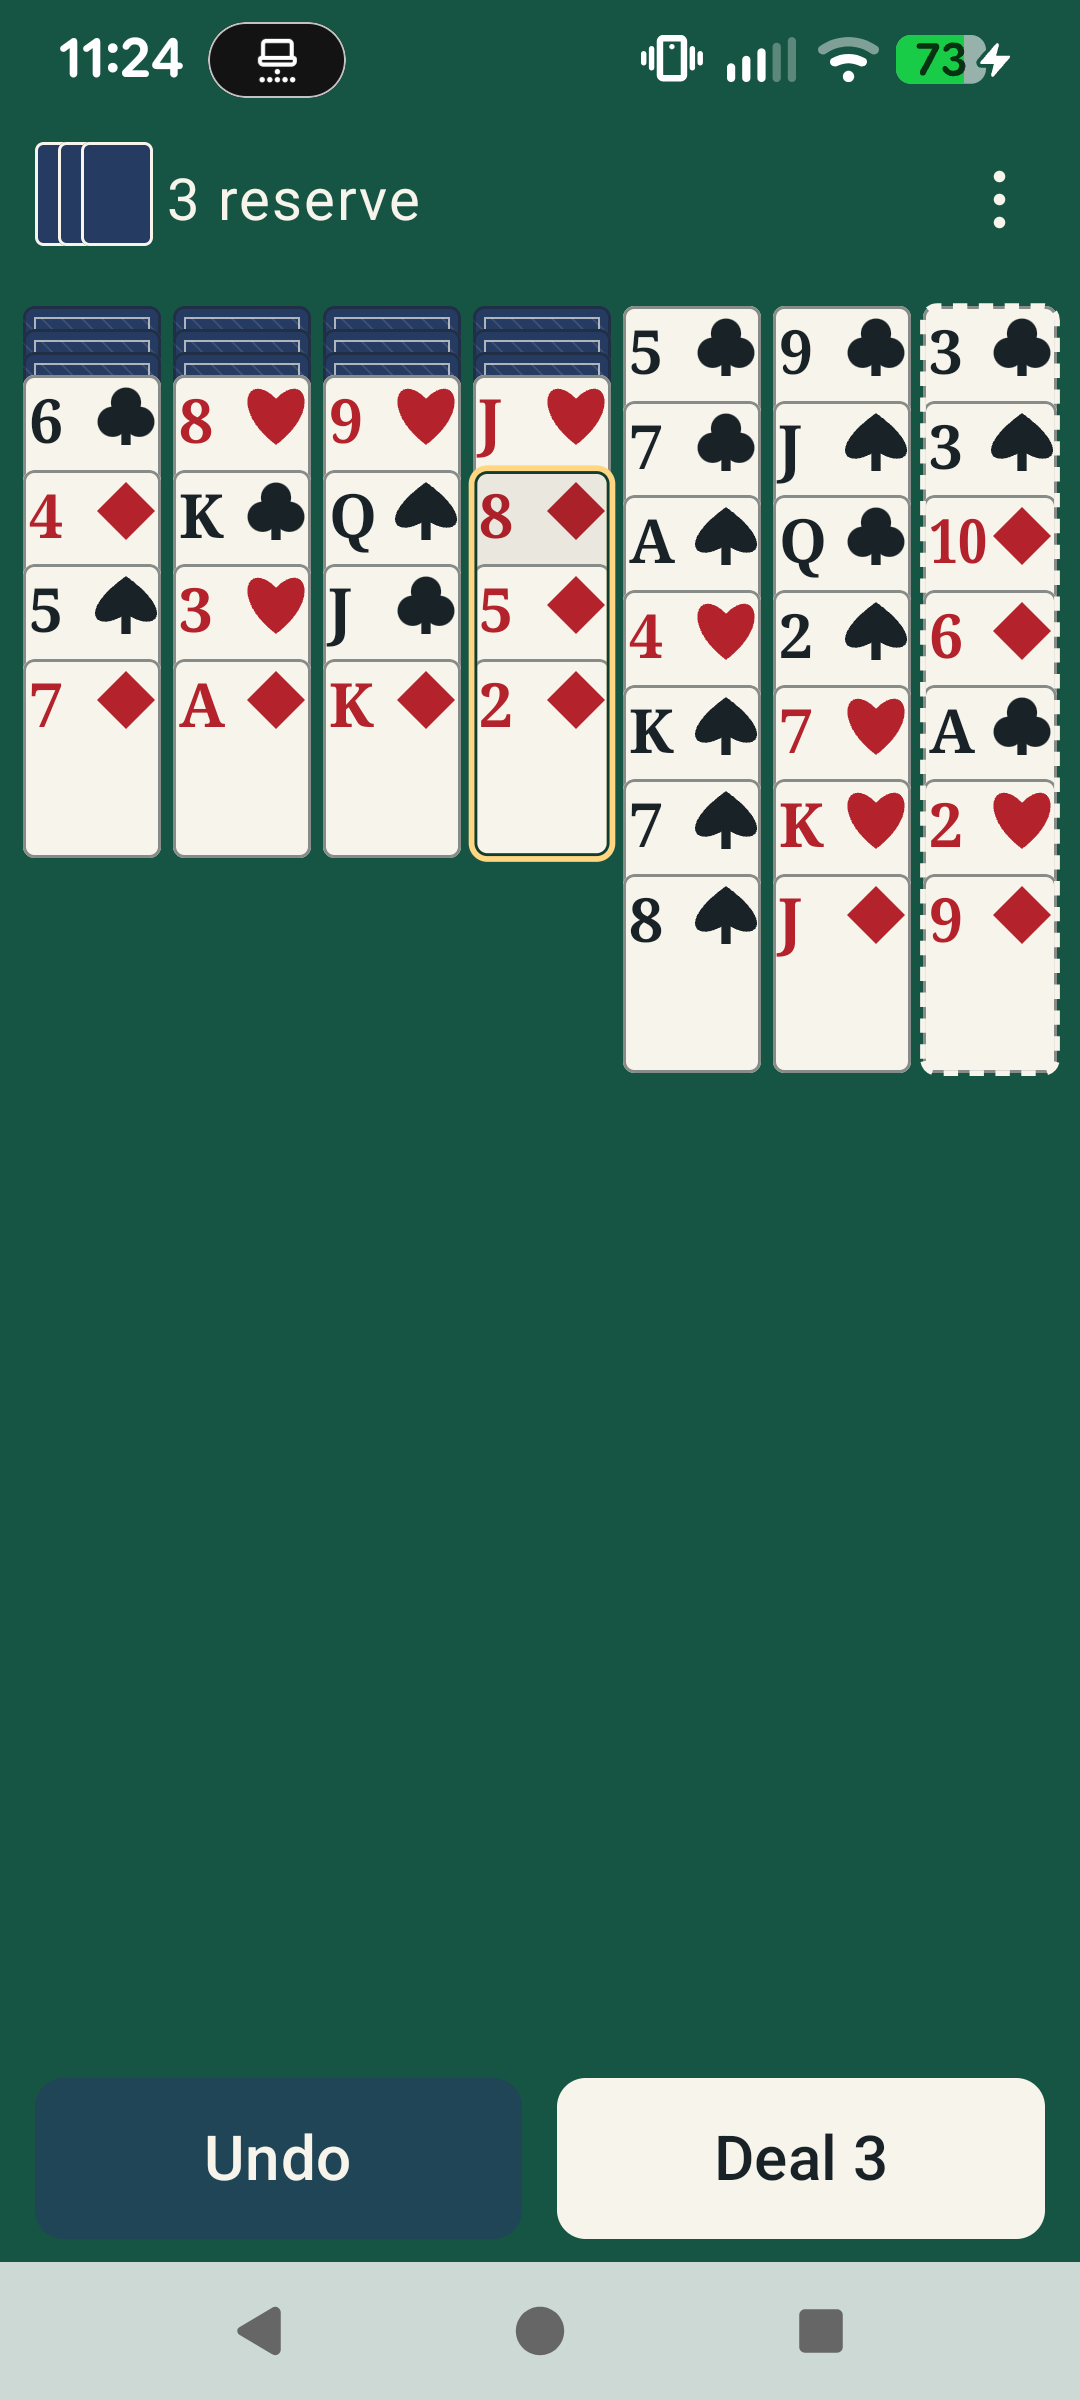
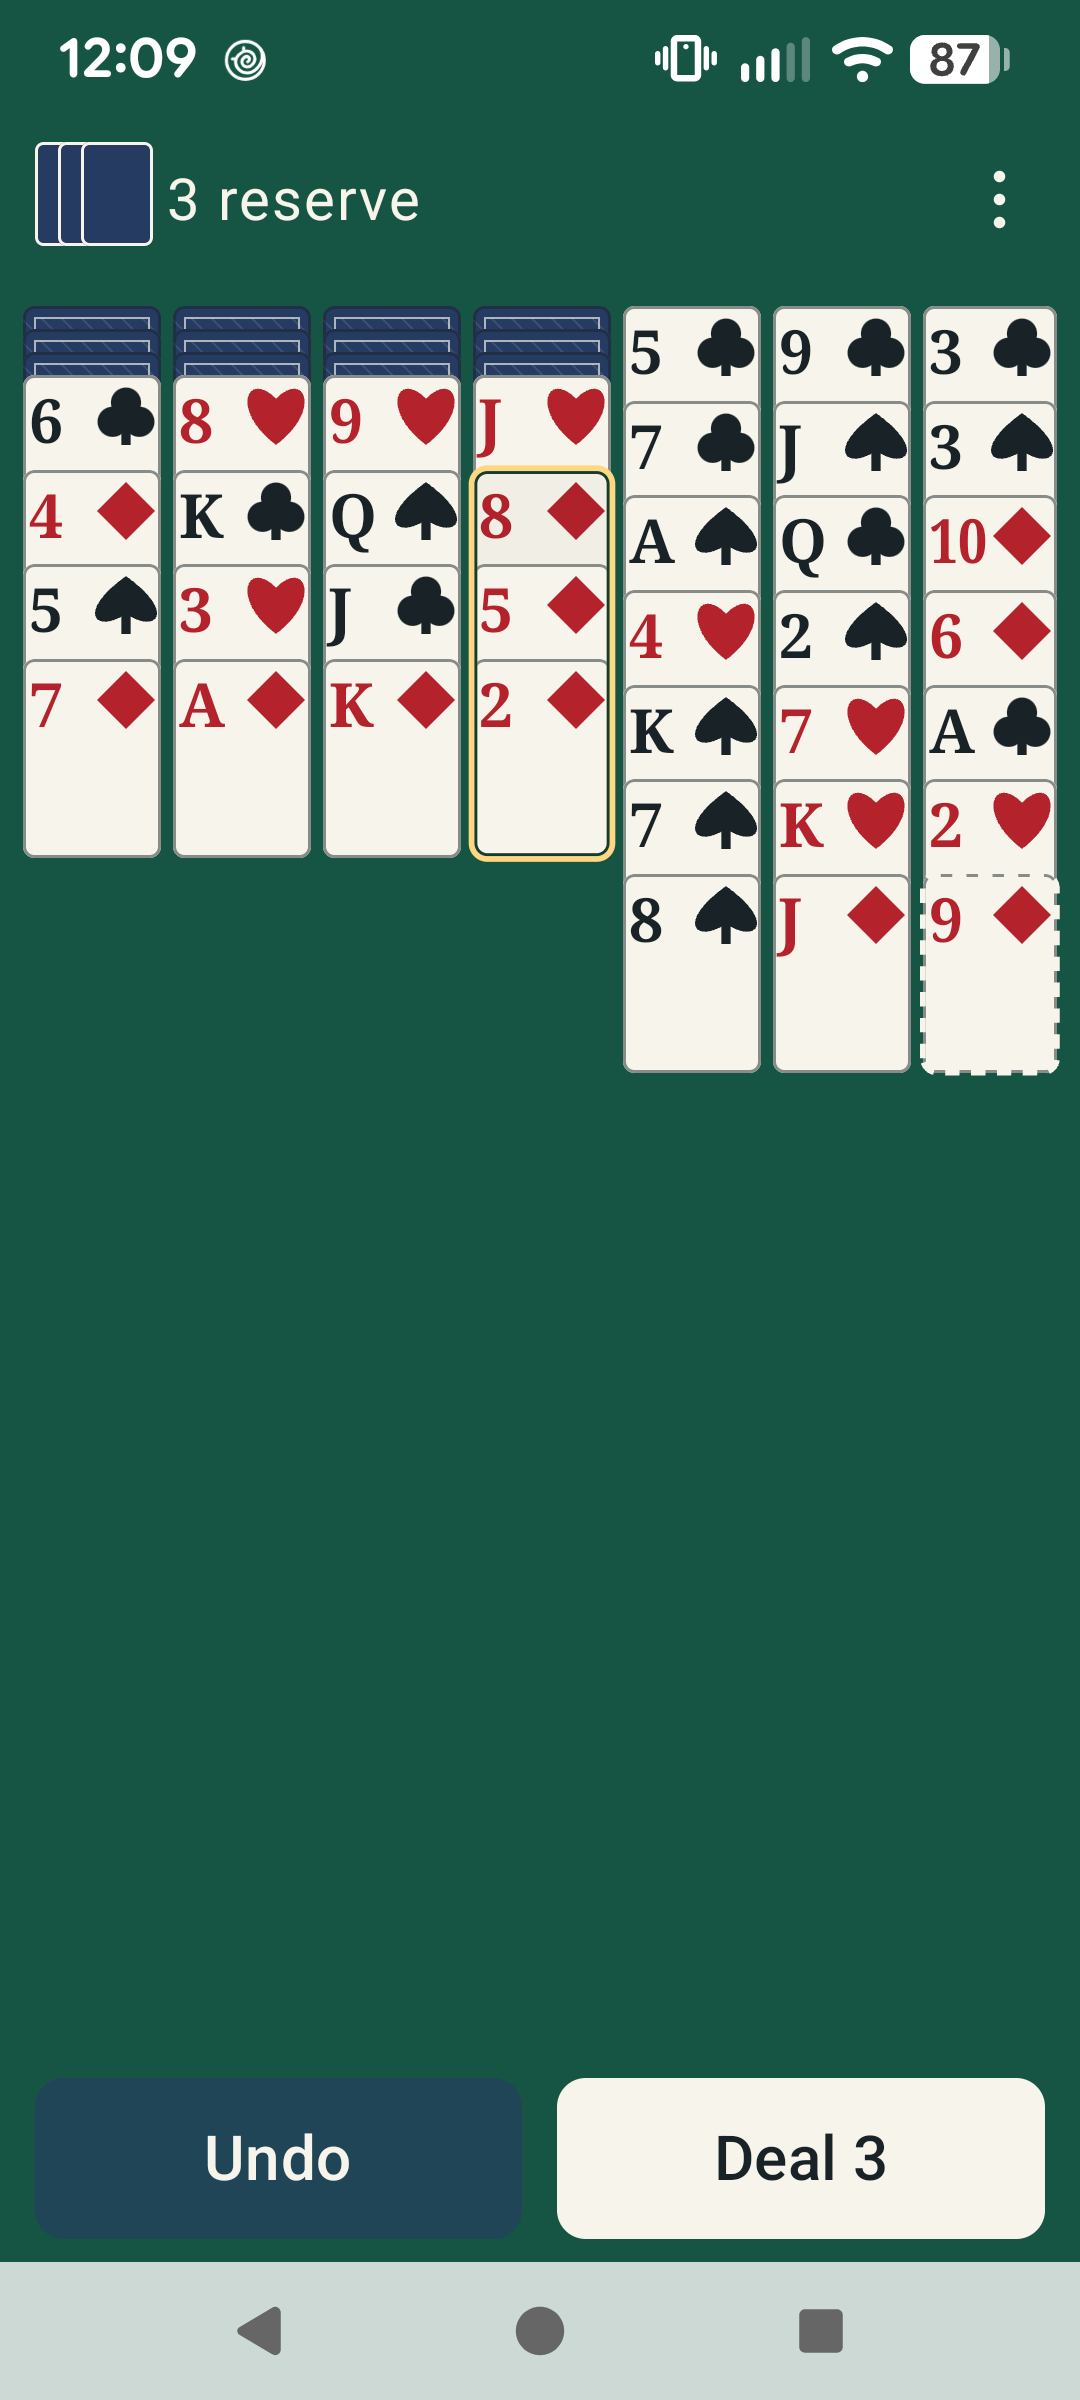
Record single-card destination feedback and unoutlined empty slots

Changed region(s): [[0.5806, 0.0, 0.9472, 0.0625], [0.0611, 0.0, 0.3361, 0.0625]]

diff --git a/docs/phase4d-interface.md b/docs/phase4d-interface.md
@@ -10,7 +10,7 @@ Owner explicitly approved the final design in the Work conversation on **2026-11
 | 4D-UX-02 | Compact reserve/menu row. Exactly two persistent play controls: Undo and Deal 3. Restart, New Game and Help in Menu; destructive confirmations retained. |
 | 4D-UX-03 | **Revised by owner:** remove the separate Inspect screen and button. Readable exposed strips, board scrolling and direct accessibility actions replace inspection. |
 | 4D-UX-04 | Tap a face-up card selects that card and its whole attached tail. Tap legal column commits that group. Tap illegal column clears selection only: board, revision and Undo stay unchanged. No separate visible destination chooser or selection toolbar. |
-| 4D-UX-05 | Warm ivory faces, original traditional suit artwork, restrained blue backs, continuous gold/dark selected-group outline; legal columns have a dashed edge. Completed suits stay on the board; no top completion display. |
+| 4D-UX-05 | Warm ivory faces, original traditional suit artwork, restrained blue backs, continuous gold/dark selected-group outline; legal non-empty destinations outline only their bottom exposed card; empty slots have no outline. Completed suits stay on the board; no top completion display. |
 | 4D-UX-06 | Portrait bottom controls, short-window side controls, centered width-capped tablet cards. Large text stacks indices and grows overlap; no height-driven tiny type. |
 | 4D-UX-07 | Every exposed source and legal destination available through board accessibility actions, native selected/start/attached-tail semantics and keyboard controls. No second tableau or rule implementation. |
 | 4D-UX-08 | High-contrast palette, safe insets, non-color state cues and immediate feedback without required motion. No new preference settings. |
@@ -23,13 +23,17 @@ The owner subsequently requested removal of visible column headings and tighter 
 
 ## Owner-approved corner-index refinement (2026-11-01)
 
-After reviewing the revised mockup, the owner authorized implementation: larger rank in the upper left, larger suit in the upper right, and the next card starting immediately below that row with a small gap. Visible column headings remain removed; column identifiers remain in accessibility descriptions/actions. The legal-destination dashed border and whole-tail outlines remain.
+After reviewing the revised mockup, the owner authorized implementation: larger rank in the upper left, larger suit in the upper right, and the next card starting immediately below that row with a small gap. Visible column headings remain removed; column identifiers remain in accessibility descriptions/actions. A later owner refinement restricts the legal-destination dotted outline to the bottom exposed card and removes all empty-slot outlines. Whole-tail source outlines remain.
 
 Base rank and suit sizes increase 20% over the prior design. Normal text layouts use a single row, four dp above the indices and two dp below. A measured rank is condensed horizontally only if necessary to fit its allocated space (particularly 10), preserving its height and full identity. The unused decorative lower suit is removed to match the approved mockup. At 200% text on narrow cards, the readable stacked fallback remains; system text scaling is respected. All presentation bounds and previews share the same geometry, and long columns still scroll.
 
 ![Approved corner indices and tight overlap concept](evidence/phase4d/approved-corner-indices.png)
 
 This generated illustration is a design reference, not a tested application screenshot. Actual evidence and current test results are recorded below.
+
+## Destination-outline refinement
+
+The owner requested a dotted outline around only the single bottom exposed card of a legal non-empty destination, followed by removal of empty-slot outlines completely. The outline uses that card’s existing stack offset and card height. Empty columns retain their dash marker, tap/drop hit area and native move actions, without any perimeter outline. Move legality, source-group outlining and interaction dispatch are unchanged. Code `b01128739ca03f32b33db5d381d9c07ab8fc542f` compiled and passed all 41 JVM tests in CI. On the same Pixel configuration below, three focused instrumentation tests passed in 9.683 seconds: selected whole-tail legal/illegal taps and Undo; empty-column tap/drag and repeated Undo; retained victory runs and Undo. Native selected/victory screenshots were captured and visually reviewed. The final PR head and both required full CI results are recorded in [PR #22](https://github.com/FoxyLight/Wasp-Solitaire/pull/22); earlier full-suite/device results below remain attributed to their original build.
 
 ## Implementation contract
 
@@ -75,7 +79,7 @@ Visual review found and corrected undersized controls in inset-heavy short windo
 
 ## Actual screenshot evidence and before/after review
 
-All seven application images below are unmodified native captures from the tested final code head on the Pixel, and were visually inspected. The portrait selected example uses seed 123: **8♦ + 5♦ + 2♦**, legal onto Column 7's **9♦**. The moved image shows that whole group in the destination. The landscape image is an actual rotated Activity (2400×1080px), not a size override. Large-text/tablet captures use Compose configuration overrides on the Pixel; white letterboxing outside the forced app window is the test harness, not wasted application space. CI provides separate emulator captures in its board-rendering-evidence artifact.
+All seven application images below are unmodified native Pixel captures and were visually inspected. Selected-tail and victory images are from the destination-outline refinement `b011287`; the remaining five are from the earlier fully tested corner-index build `b34eb2c`. The latter predate removal of empty outlines (visible behind the restart dialog); consult the current victory capture for empty-slot appearance. The portrait selected example uses seed 123: **8♦ + 5♦ + 2♦**, legal onto Column 7's **9♦**. The moved image shows that whole group in the destination. The landscape image is an actual rotated Activity (2400×1080px), not a size override. Large-text/tablet captures use Compose configuration overrides on the Pixel; white letterboxing outside the forced app window is the test harness, not wasted application space. CI provides separate emulator captures in its board-rendering-evidence artifact.
 
 | Earlier Phase 4C | Phase 4D actual result | Review finding |
 | --- | --- | --- |

diff --git a/docs/decisions.md b/docs/decisions.md
@@ -1,6 +1,6 @@
 # Architecture and product decision log
 
-**Phase 4D owner amendment (2026-11-01):** [Final approved design and implementation record](phase4d-interface.md) supersedes earlier Hint/expanded-inspection/control-layout proposals. Hint is removed (MVP-08 / MVP-DEC-03); no separate Inspect screen, title or completion display. Two-tap moves use whole-tail selection and explicit destination; illegal destination taps clear selection without a game action. Primary controls are Undo and Deal 3. Subsequent owner refinements remove visible column headings, enlarge rank/suit 20%, place rank left and suit right, and tighten overlap just below their row; accessible column identifiers and the narrow-card 200% text stacked fallback remain. The owner approved the revised mockup before implementation. Full non-drag access remains through direct board accessibility actions. Owner design approval authorizes implementation; merge and publication remain separate gates. Phases 4A–4C are merged through PRs #18–20. Historical text below must be read with this amendment.
+**Phase 4D owner amendment (2026-11-01):** [Final approved design and implementation record](phase4d-interface.md) supersedes earlier Hint/expanded-inspection/control-layout proposals. Hint is removed (MVP-08 / MVP-DEC-03); no separate Inspect screen, title or completion display. Two-tap moves use whole-tail selection and explicit destination; illegal destination taps clear selection without a game action. Primary controls are Undo and Deal 3. Subsequent owner refinements remove visible column headings, enlarge rank/suit 20%, place rank left and suit right, and tighten overlap just below their row; accessible column identifiers and the narrow-card 200% text stacked fallback remain. The owner approved the revised mockup before implementation. Subsequent destination feedback refinement outlines only the bottom exposed legal destination card and removes empty-slot outlines; empty-column gameplay remains available. Full non-drag access remains through direct board accessibility actions. Owner design approval authorizes implementation; merge and publication remain separate gates. Phases 4A–4C are merged through PRs #18–20. Historical text below must be read with this amendment.
 
 **Status:** RULE-01–06, MVP-DEC-01–08, ARCH-DEC-01–08, UX-DEC-01–08 and REL-DEC-01–08 **Accepted** by project owner on 2026-10-29. Provisional app identity and real-world account, trademark, package, asset and release verification remain outstanding.  
 **Created:** 2026-10-29  
